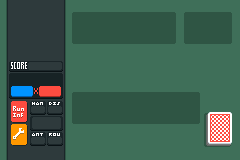
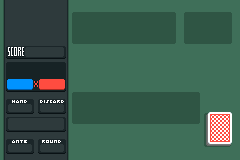
Refactor hand_discard function to return a boolean and update game logic for discarding cards; add background_play_gfx and improve text engine initialization.

Changed region(s): [[0.0, 0.0, 0.2917, 1.0], [0.875, 0.875, 0.9625, 0.9062]]

diff --git a/source/card.c b/source/card.c
@@ -273,6 +273,14 @@ void card_update() // This whole function is currently pretty unoptimized due to
                             hand_x = int2fx(240);
                             hand_y = int2fx(70);
 
+                            if (!sound_played)
+                            {
+                                const int pitch_lut[MAX_SELECTION_SIZE] = {1024, 960, 896, 832, 768};
+                                mm_sound_effect sfx_draw = {{SFX_CARD_DRAW}, pitch_lut[cards_drawn], 0, 255, 128,};
+                                mmEffectEx(&sfx_draw);
+                                sound_played = true;
+                            }
+
                             if (hand[i]->x >= hand_x)
                             {
                                 card_object_destroy(&hand[i]);
@@ -281,14 +289,6 @@ void card_update() // This whole function is currently pretty unoptimized due to
                                 hand_top--;
                                 cards_drawn++; // This technically isn't drawing cards, I'm just reusing the variable
                                 sound_played = false;
-                            }
-
-                            if (!sound_played)
-                            {
-                                const int pitch_lut[MAX_SELECTION_SIZE] = {1024, 960, 896, 832, 768};
-                                mm_sound_effect sfx_draw = {{SFX_CARD_DRAW}, pitch_lut[cards_drawn], 0, 255, 128,};
-                                mmEffectEx(&sfx_draw);
-                                sound_played = true;
                             }
 
                             discarded_card = true;
@@ -351,7 +351,7 @@ void card_update() // This whole function is currently pretty unoptimized due to
 // Hand functions
 void hand_set_focus(int index)
 {
-    if (index < 0 || index > hand_top) return;
+    if (index < 0 || index > hand_top || hand_state != HAND_SELECT) return;
     card_focused = index;
 
     mm_sound_effect sfx_focus = {{SFX_CARD_FOCUS}, 1024 + rand() % 512, 0, 255, 128,};
@@ -391,11 +391,12 @@ void hand_change_sort()
     sort_cards();
 }
 
-void hand_discard()
+bool hand_discard()
 {
-    if (hand_state != HAND_SELECT) return;
+    if (hand_state != HAND_SELECT || hand_selections == 0) return false;
     hand_state = HAND_DISCARD;
     card_focused = 0;
+    return true;
 }
 
 int hand_get_size()

diff --git a/source/game.c b/source/game.c
@@ -8,9 +8,26 @@
 #include "sprite.h"
 #include "card.h"
 
+static int hand = 4;
+static int discard = 4;
+
 void game_init()
 {
-    
+    tte_printf("#{P:128,128; cx:0}%d/%d", hand_get_size(), hand_get_max_size()); // Hand size/max size
+    tte_printf("#{P:200,152}%d/%d", deck_get_size(), deck_get_max_size()); // Deck size/max size
+
+    tte_printf("#{P:32,48;}*%d", 0); // Score
+
+    tte_printf("#{P:24,80;}%d", 0); // Chips
+    tte_printf("#{P:40,80;}%d", 0); // Mult
+
+    tte_printf("#{P:16,104; cx:0x2000}%d", hand); // Hand
+    tte_printf("#{P:48,104; cx:0x3000}%d", discard); // Discard
+
+    tte_printf("#{P:24,120; cx:0x1000}$%d", 4); // Money
+
+    tte_printf("#{P:48,144}%d", 1); // Round
+    tte_printf("#{P:8,144}%d#{cx:0}/%d", 1, 8); // Ante
 }
 
 void game_update()
@@ -36,9 +53,22 @@ void game_update()
 
     if (key_hit(KEY_SELECT))
     {
-        hand_discard();
+        if (discard > 0 && hand_discard())
+        {
+            discard--;
+            tte_printf("#{P:48,104; cx:0x3000}%d", discard);
+        }
     }
 
-    tte_printf("#{es; P:128,130}%d/%d", hand_get_size(), hand_get_max_size());
-    tte_printf("#{P:200,155}%d/%d", deck_get_size(), deck_get_max_size());
+    static int last_hand_size = 0;
+    static int last_deck_size = 0;
+
+    if (last_hand_size != hand_get_size() || last_deck_size != deck_get_size())
+    {
+        tte_printf("#{P:128,128; cx:0}%d/%d", hand_get_size(), hand_get_max_size()); // Hand size/max size
+        tte_printf("#{P:200,152}%d/%d", deck_get_size(), deck_get_max_size()); // Deck size/max size
+
+        last_hand_size = hand_get_size();
+        last_deck_size = deck_get_size();
+    }
 }

diff --git a/source/main.c b/source/main.c
@@ -9,6 +9,7 @@
 // Graphics
 #include "deck_gfx.h"
 #include "background_gfx.h"
+#include "background_play_gfx.h"
 
 // Audio
 #include "soundbank.h"
@@ -23,14 +24,10 @@ void init()
     mmInitDefault((mm_addr)soundbank_bin, 12);
     mmStart(MOD_MAIN_THEME, MM_PLAY_LOOP);
 
-    // Initialize text engine
-    tte_init_se(1, BG_CBB(1) | BG_SBB(31) | BG_8BPP, 0, CLR_WHITE, 11, NULL, NULL);
-    tte_init_con();
-
     // Set up the video mode
     REG_DISPCNT = DCNT_MODE0 | DCNT_OBJ_1D | DCNT_BG0 | DCNT_BG1 | DCNT_OBJ;
-	REG_BG0CNT = BG_PRIO(1) | BG_CBB(0) | BG_SBB(30) | BG_8BPP | BG_REG_64x32;
-    REG_BG1CNT = BG_PRIO(0) | BG_CBB(1) | BG_SBB(31) | BG_8BPP;
+    REG_BG0CNT = BG_PRIO(1) | BG_CBB(0) | BG_SBB(30) | BG_8BPP | BG_REG_64x32;
+    REG_BG1CNT = BG_PRIO(0) | BG_CBB(1) | BG_SBB(31) | BG_4BPP;
 
     // Load the tiles and palette
     memcpy(pal_bg_mem, background_gfxPal, background_gfxPalLen);
@@ -39,6 +36,15 @@ void init()
 
     memcpy(&tile_mem[4][0], deck_gfxTiles, deck_gfxTilesLen);
     memcpy(pal_obj_mem, deck_gfxPal, deck_gfxPalLen);
+
+    // Initialize text engine
+    tte_init_se(1, BG_CBB(1) | BG_SBB(31), 0, CLR_WHITE, 11, NULL, NULL);
+    tte_erase_screen();
+    tte_init_con();
+
+    pal_bg_bank[1][12] = 0x029F; // honestly fuck libtonc because i cannot figure out how you're supposed to select a color from the palette index so i'm doing it like this
+    pal_bg_bank[2][12] = pal_bg_bank[0][11];
+    pal_bg_bank[3][12] = pal_bg_bank[0][2];
 
     // Initialize subsystems
     sprite_init();

diff --git a/include/card.h b/include/card.h
@@ -68,7 +68,7 @@ void hand_set_focus(int index); // This makes the card at the given index the on
 int hand_get_focus(); // This gets the index of the card that's being looked at
 void hand_select(); // This lets the player select the card they're looking at for the next action
 void hand_change_sort(); // This sorts the hand by suit or rank
-void hand_discard(); // This discards the selected cards
+bool hand_discard(); // This discards the selected cards
 int hand_get_size(); // This gets the size of the hand
 int hand_get_max_size(); // This gets the maximum size of the hand (this doesn't get the array max, it gets the total amount of cards that you have)
 
